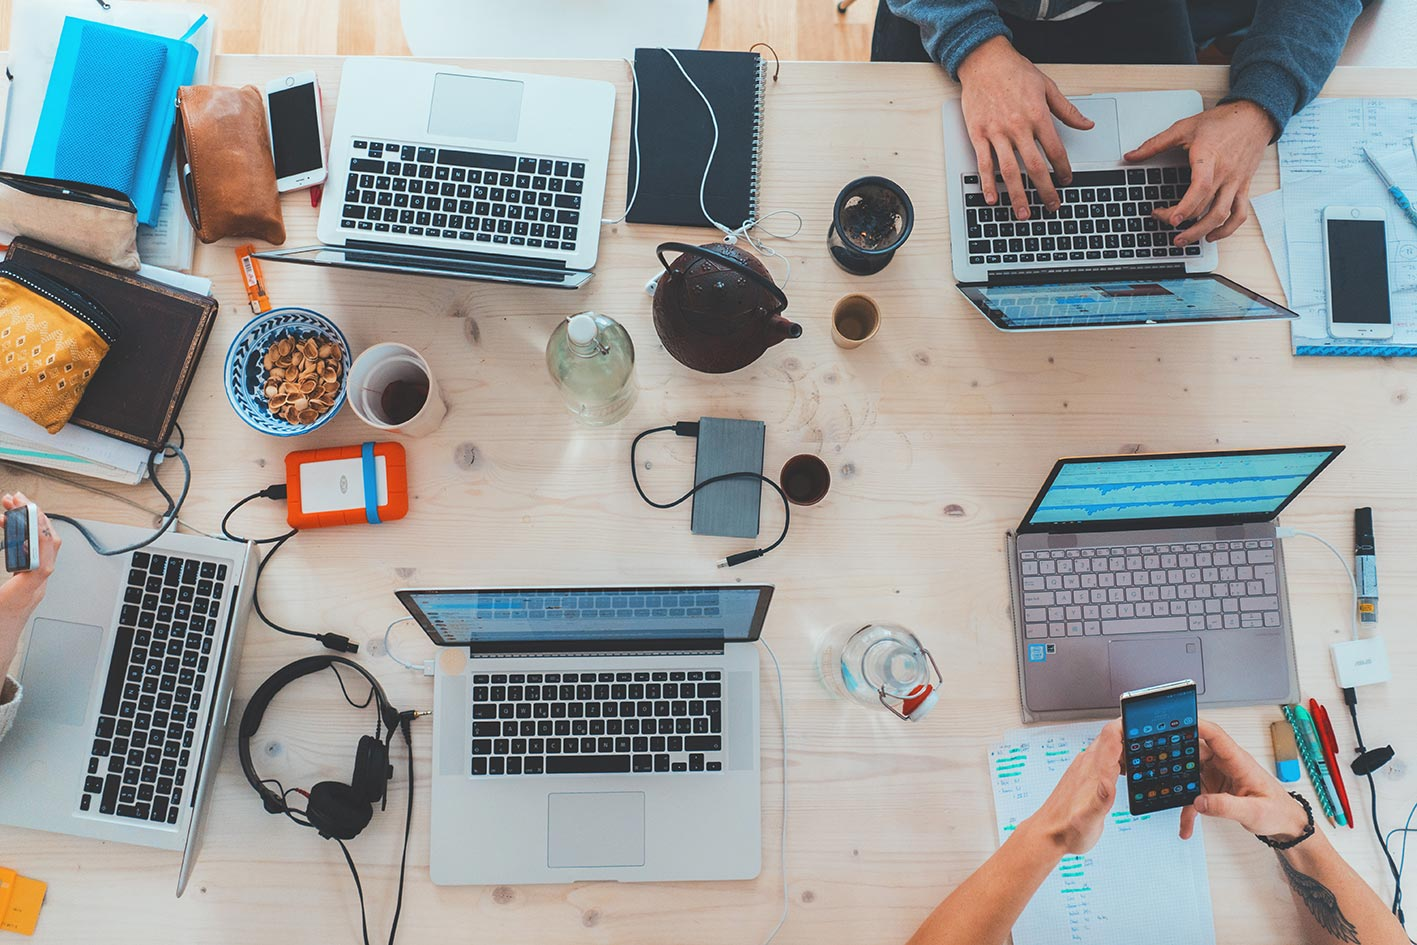
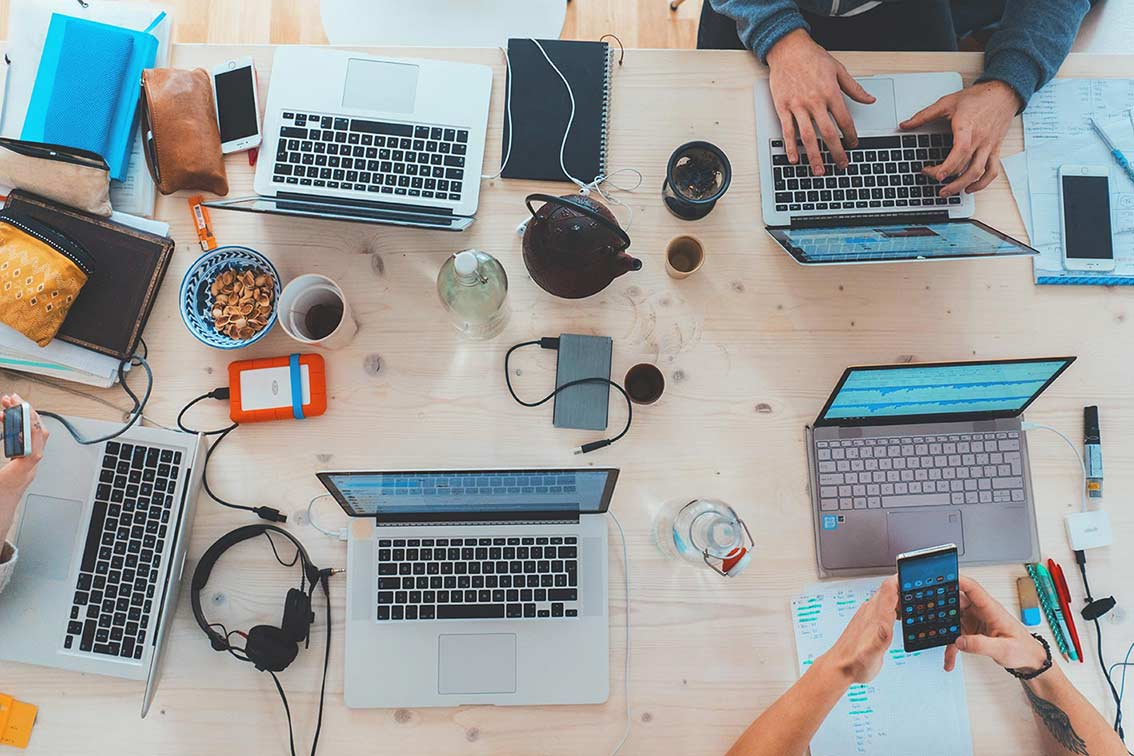
essaie avec les medias queries (ce n'est pas une réussite)

diff --git a/index.html b/index.html
@@ -14,7 +14,7 @@
    
 
         <header id="header">
-            <class="bannière"><img  class="logo" src="css\img\chloe_maingot.png">
+            <class="bannière"><img  class="logo" src="css\img\chloe-logo.png">
             <ul id="menu">
                 <a href="#Chloé Maingot"><li></a>Chloe Maingot</li>
 
@@ -24,17 +24,17 @@
         </header>
         <main>
             <section id="intro">
-                <img class="image" src="css\img\DSCF4926.JPG">
+                <img class="image" src="css\img\Qui-je-suis-.jpg">
                 <div class="content">
                     <h3 class="jepeux">Je peux : faire un site WordPress, faire des articles de blogs...</h3>
                 </div>
             </section>
 
             <section id="unpeudemoi">
-                <img  class="moi" src="css\img\unpeu-demoi.png">
+                <img  class="un-peu-de-moi" src="css\img\un-peu-de-moi.png">
                 <div class="content"> 
-                    <h1 class="titre">Un peu de moi</h1>
-                    <p class="présentation">Je m’appelle Chloé Maingot, je viens d’une jolie ville pleine de charme nommée Bernay. Très habituée à la campagne, j’étais très heureuse à l’idée de vivre et faire mes études à Rouen.
+                    <h1 class="titre1">Un peu de moi</h1>
+                    <p class="titre">Je m’appelle Chloé Maingot, je viens d’une jolie ville pleine de charme nommée Bernay. Très habituée à la campagne, j’étais très heureuse à l’idée de vivre et faire mes études à Rouen.
                      C’est donc très excitée que j’entre dans ma première année d’études supérieures à  la Normandie Web School. La première année consiste à découvrir les trois pôles du numérique : marketing, design et développement.
                      C’est à partir de la deuxième année que l’on se spécialise. On peut dire que j’ai une petite préférence pour le web marketing.</p>
                 </div>
@@ -44,19 +44,19 @@
         <body>
             <section id="competences">
                 <img class="skills" src="css\img\skills.jpg">
-                <div class="content">
-                    <h1>Mes compétences</h1>
-                    <h4>(ps : J'en ai bien d'autres)</h4> 
+                <div class="competences">
+                    <h1 class="maitrise">Mes compétences</h1>
+                    <h4 class="maitrise">(ps : J'en ai bien d'autres)</h4> 
                     
-                        <h5>Web marketing :</h5>
-                         <P><br> Ayant travaillé dans un magasin de prêts à porter, j'ai pu acquérir quelques compétences en marketing. L’école m’a donc permis de renforcer mes bases en s’appuyant sur le côté Web. </P>
+                        <h5 class="maitrise">Web marketing :</h5>
+                         <P class="maitrise"><br> Ayant travaillé dans un magasin de prêts à porter, j'ai pu acquérir quelques compétences en marketing. L’école m’a donc permis de renforcer mes bases en s’appuyant sur le côté Web. </P>
                      
-                        <h5>Web design :</h5>
-                        <p><br> Dessinant depuis peu, mon côté design graphique reste à se cultiver et à s’enrichir. Néanmoins mes cinq mois à l’école m’ont beaucoup aidé, notamment sur l’utilisation des logiciels tels que ; Illustrator, Indesign et photoshop. Aujourd’hui, je me sens capable de réaliser une affiche publicitaire dans le cadre d’un événement particulier, de réaliser la conception graphique d’un site web ou de rédiger des articles de blogs, etc. </p>
+                        <h5 class="maitrise">Web design :</h5>
+                        <p class="maitrise"><br> Dessinant depuis peu, mon côté design graphique reste à se cultiver et à s’enrichir. Néanmoins mes cinq mois à l’école m’ont beaucoup aidé, notamment sur l’utilisation des logiciels tels que ; Illustrator, Indesign et photoshop. Aujourd’hui, je me sens capable de réaliser une affiche publicitaire dans le cadre d’un événement particulier, de réaliser la conception graphique d’un site web ou de rédiger des articles de blogs, etc. </p>
                         
                  
-                        <h5>Développement : </h5>
-                       <p><br> A  mon arrivée à l’école, le code était pour moi une grande découverte, je n’avais aucune connaissance sur le sujet. C’est avec beaucoup de recherches sur internet et l’aide de mes amis qu’aujourd’hui je suis capable de réaliser mon site en html/css.
+                        <h5 class="maitrise">Développement : </h5>
+                       <p class="maitrise"><br> A  mon arrivée à l’école, le code était pour moi une grande découverte, je n’avais aucune connaissance sur le sujet. C’est avec beaucoup de recherches sur internet et l’aide de mes amis qu’aujourd’hui je suis capable de réaliser mon site en html/css.
                         Les balises H1, H2, H3 etc ne sont plus un secret pour moi. 
                     </p> 
                     
@@ -65,12 +65,12 @@
 
             <section id="loisirs">
                 <h1>Ce qui me rend heureuse</h1>
-                <img class="chausson" src="css\img\ballet-shoes.png">
+                <img class="chausson" src="css\img\chausson-de-danse.png">
                 <h3>Une fille en pointe</h3> 
                 
                 <p>
                     La danse est pour moi plus qu’un art, c’est une passion. Cela fait onze ans que je danse et je ne m’en lasse jamais. C’est pour moi un véritable  plaisir de l’exercer. J’y acquiers rigueur et discipline. </p>
-                    <img class="pinceau" src="css\img\pinceau.png.webp">
+                    <img class="crayon" src="css\img\crayon.png">
                 <h3>Du crayon à la souris</h3>
                 
                 <p>Le Design commence de manière très simple : par le dessin. J’ai débuté par de simples illustrations comme les roses. Puis, petit à petit, j’ai ajouté de la difficulté en dessinant sur l’ordinateur via Illustrator en représentant des formes humaines.</p>
@@ -91,7 +91,7 @@
 
             <section id="mecontacter">
                 <h1>Me contacter</h1>
-                <img class="ecole" src="css\img\me-contacter.jpg">
+                <img class="ecole" src="css\img\nws.jpg">
                 <h3>07 50 46 01 83</h3>
                 <P>cmaingot@normandiewebschool.fr<br>
                     chloemaingot@bbox.fr</P>
@@ -106,6 +106,7 @@
     
                  </ul>
             </footer>
+            </main>
         </body>
             </html>
 

diff --git a/style.css b/style.css
@@ -6,6 +6,13 @@ html,body {
     padding: 0%
 }
 
+}
+
+.wrapper{
+
+  display: grid;
+
+}
 
 /* ------------------------- */
 
@@ -18,13 +25,13 @@ section {
     background-color: #F2DFCe;
 }
 .logo{
-    width: 20%;
+    width: 15%;
 }
 #menu{
     list-style: none;
     display: flex;
     padding-right: 30%;
-    font-family: 'Pacifico', cursive;
+    font-family: cursive;
     color:#58160b ;
     font-size: 100%;
 }
@@ -43,6 +50,7 @@ section {
 
 #unpeudemoi {
     background-color: #f2dfce;
+    
 }
 .titre{
     font-family: 'Pacifico', cursive;
@@ -54,8 +62,7 @@ section {
     color: #58160b;
     font-family: Georgia, 'Times New Roman', Times, serif;
 }
-.moi{
-   
+.un-peu-de-moi{
     width: 100%;
 }
 #competences{
@@ -92,7 +99,7 @@ h5{
     width: 20%;
     padding-left: 40%;
 }
-.pinceau{
+.crayon{
  
     width: 20%;
     padding-left: 40%;
@@ -143,21 +150,71 @@ a:hover{
 
     }
 
-@media screen and (max-width: 1280px) {
+ @media screen and (min-width: 940px) {
+   
+    #header{
+       padding-left: 30%;
+    }
+    .logo{
+        width: 8%;
+        padding-left: 27%;
+    }
+    .image{
+        width: 40%;
+        margin-left: 0%;
+    }
+    .jepeux{
+        margin-top: -10%;
+        margin-left: 50%;
+        font-size: 230%;
+       
+    }
+    section > #unpeudemoi{
+        background-size: large;
+    }
+    .un-peu-de-moi{
+        width: 20%;
+        margin-top: -10%;
+        margin-left: 60%;
+    }
+    .titre1{
+        margin-top: -20%;
+        margin-right: 45%;
+        font-size: 50%;
+        width: 50%;
+    }
 
-    section{
-        display: grid;
-        grid-template: repeat(2,1fr);
+    .titre{
+        margin-top: -10%;
+        margin-right: 45%;
+        font-size: 50%;
+        width: 50%;
+       
     }
-    section:nth-child(even).section_content{
-        grid-column:2/-1;
-        
-        }
     
-    #intro > div {
-        flex-grow: 1,2;
+    
+   
+    
+      
+    .skills{
+        width: 40%;
+        margin-left: 0%;
     }
-    #competences > div {
-        flex-grow: 1;  
+    .competences{
+        margin-top: -20%;
+        
+        margin-left: 45%;
+        font-size: 50%;
+        width: 50%;
     }
-}
+    .maitrise{
+        list-style: none;
+        display: flex;
+        padding-right: 30%;
+    }
+    
+    
+ }
+
+
+       
